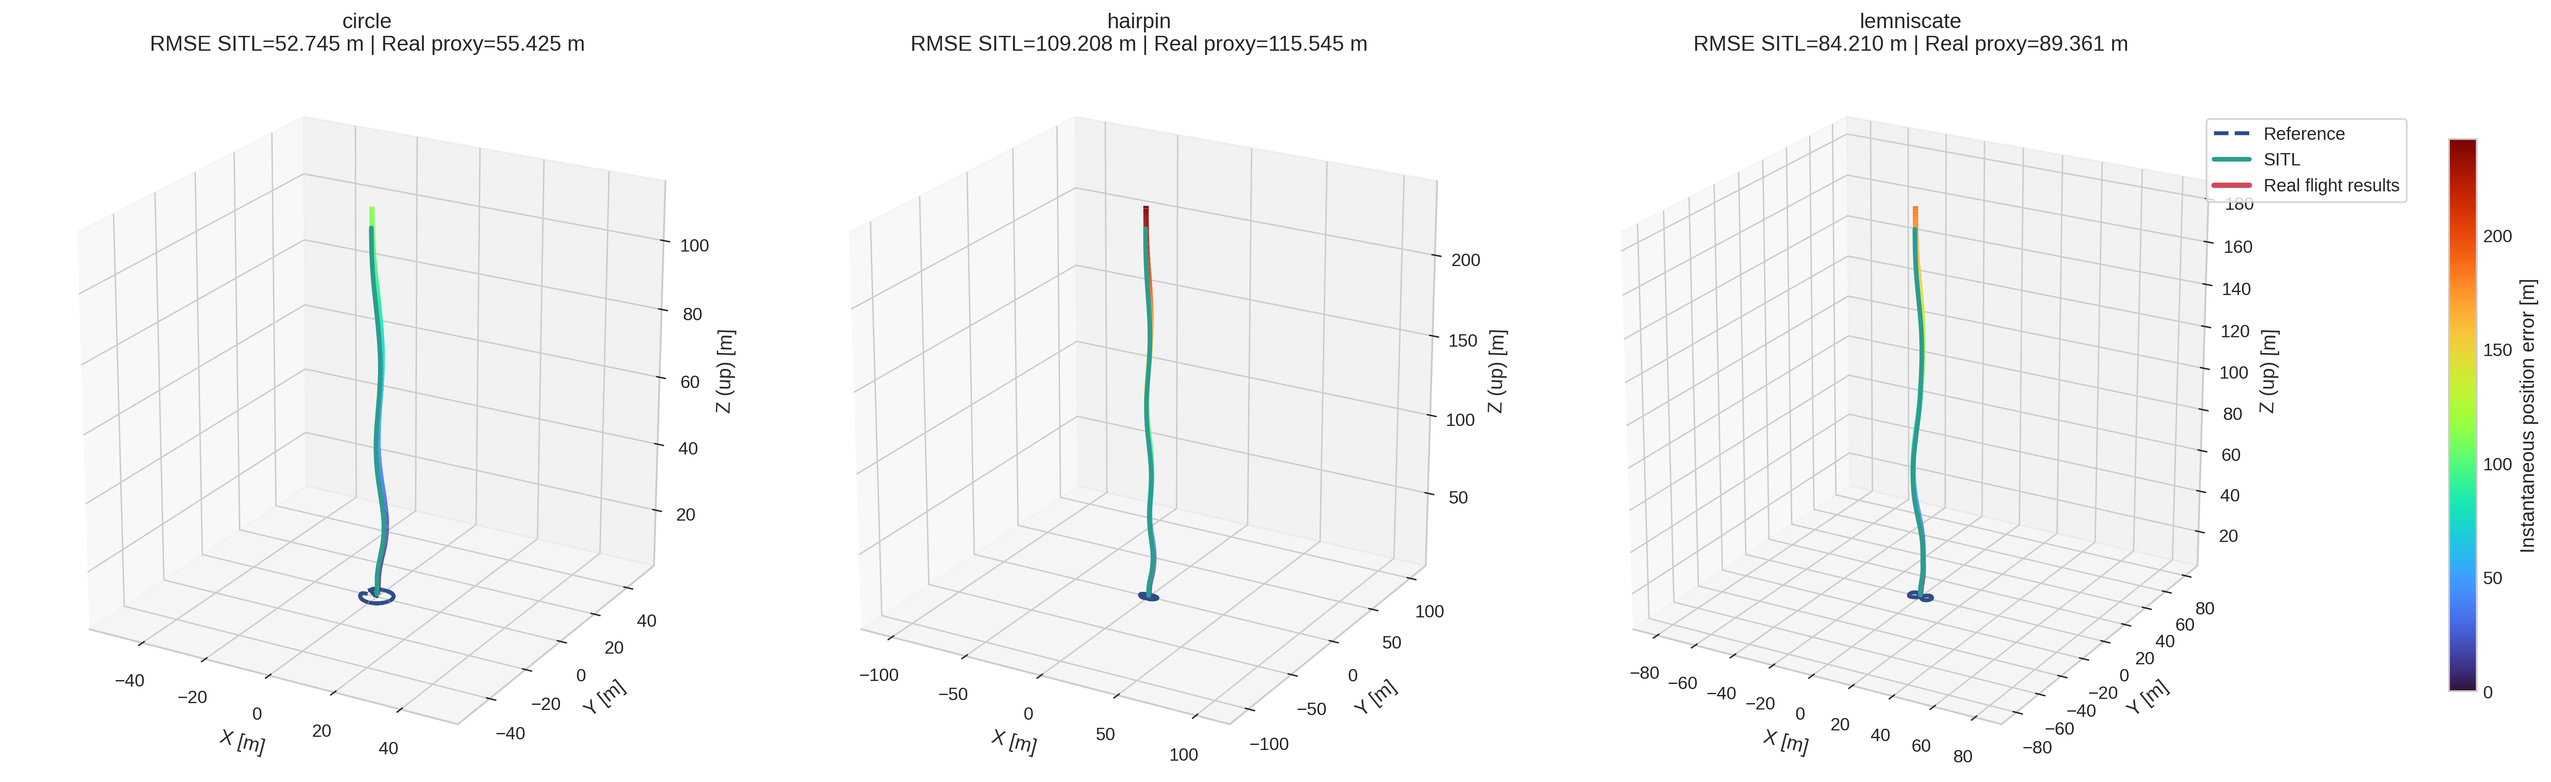
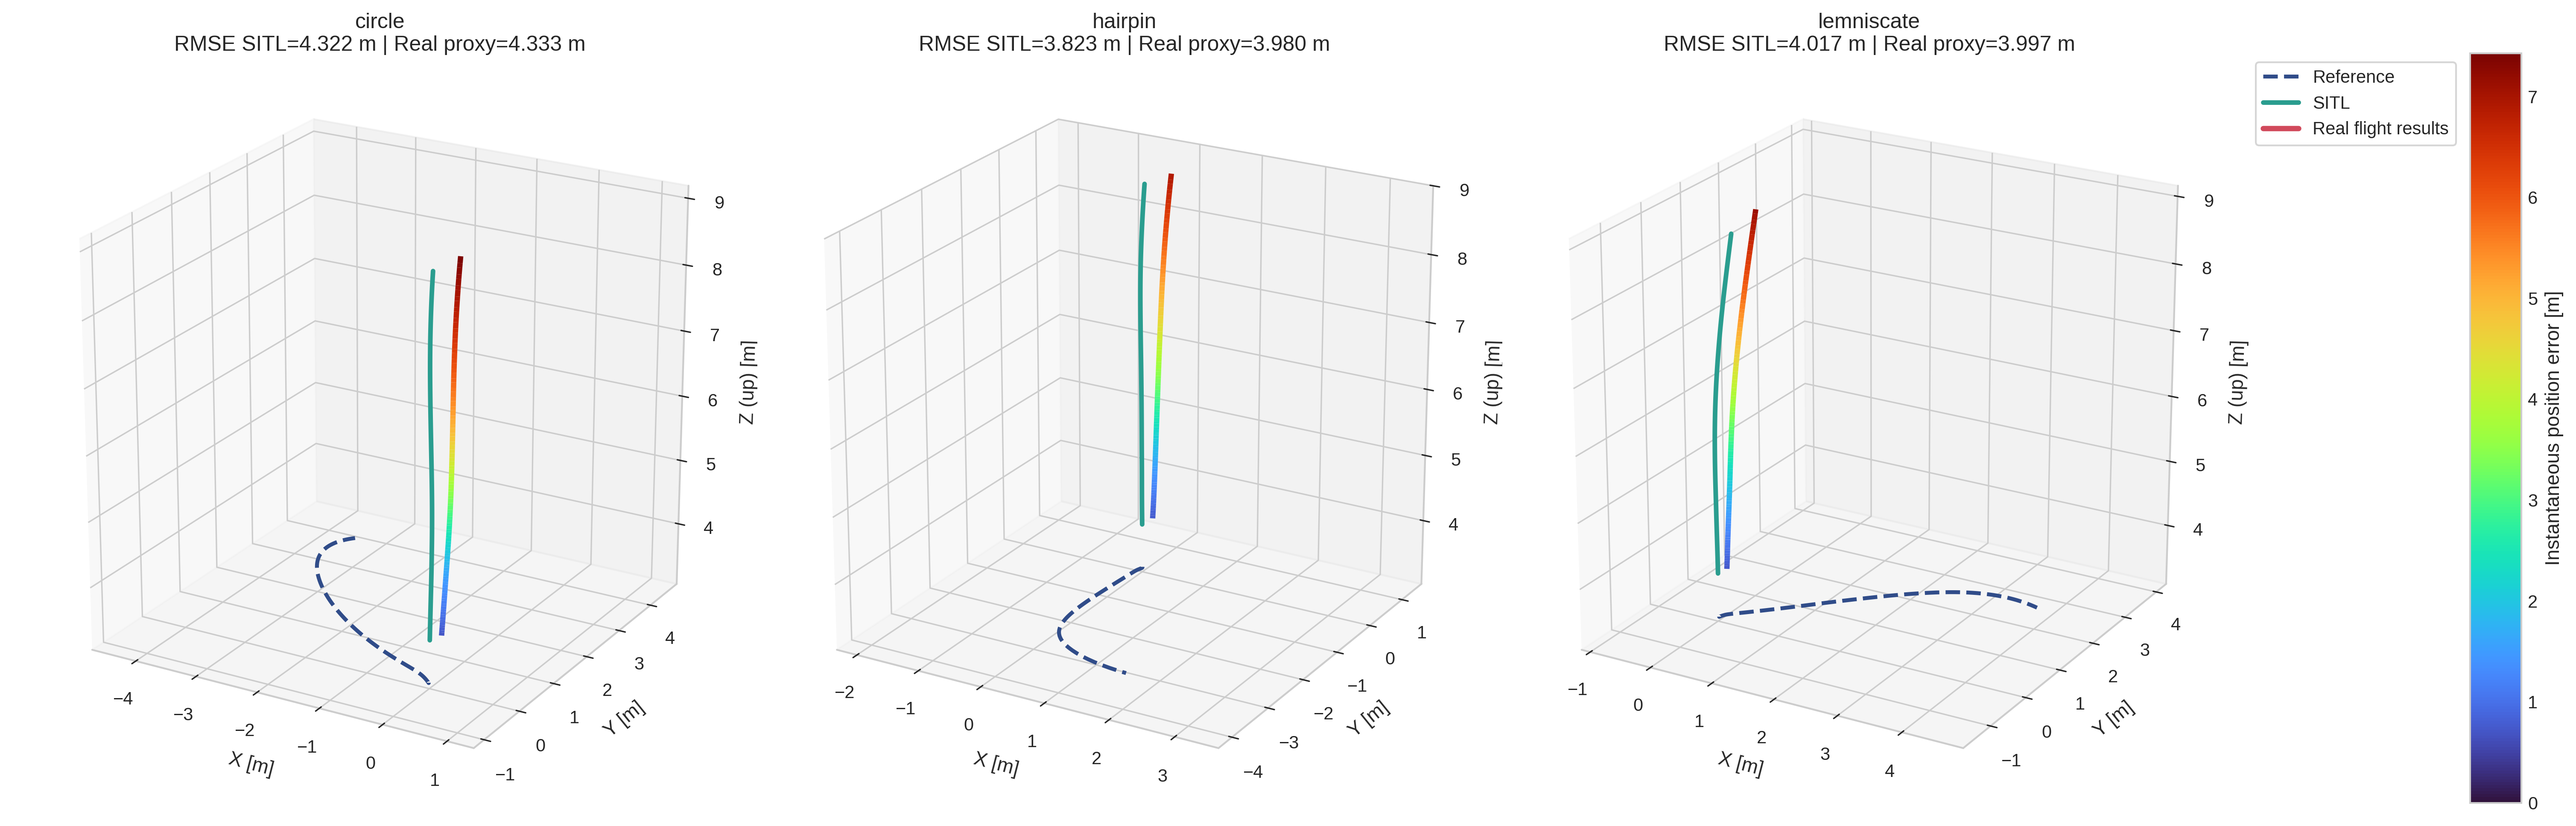
update

diff --git a/experimental_validation/offnominal_sitl_study.py b/experimental_validation/offnominal_sitl_study.py
@@ -492,6 +492,41 @@ def _trajectory_rmse(ref: np.ndarray, pos: np.ndarray) -> tuple[float, np.ndarra
     return float(np.sqrt(np.mean(sq))), np.sqrt(sq)
 
 
+def _runaway_cutoff_index(
+    ref: np.ndarray,
+    pos: np.ndarray,
+    *,
+    z_error_threshold_m: float = 6.0,
+    consecutive_samples: int = 12,
+) -> int:
+    if len(ref) == 0 or len(pos) == 0:
+        return 0
+
+    usable = min(len(ref), len(pos))
+    z_error = np.abs(pos[:usable, 2] - ref[:usable, 2])
+    run = 0
+
+    for idx, value in enumerate(z_error):
+        if value > z_error_threshold_m:
+            run += 1
+            if run >= consecutive_samples:
+                return max(1, idx - consecutive_samples + 1)
+        else:
+            run = 0
+
+    return usable
+
+
+def _trim_triplet(ref: np.ndarray, stock: np.ndarray, real: np.ndarray) -> tuple[np.ndarray, np.ndarray, np.ndarray]:
+    usable = min(len(ref), len(stock), len(real))
+    cutoff = min(
+        _runaway_cutoff_index(ref[:usable], stock[:usable]),
+        _runaway_cutoff_index(ref[:usable], real[:usable]),
+    )
+    cutoff = max(1, cutoff)
+    return ref[:cutoff], stock[:cutoff], real[:cutoff]
+
+
 def _set_axes_equal(ax: plt.Axes, points: np.ndarray) -> None:
     mins = points.min(axis=0)
     maxs = points.max(axis=0)
@@ -527,25 +562,31 @@ def build_offnominal_figures(
 
     for figure_index, cases in enumerate(PANEL_GROUPS, start=1):
         cols = len(cases)
-        fig = plt.figure(figsize=(6.2 * cols + 1.7, 6.0), layout="constrained")
-        axes = [fig.add_subplot(1, cols, idx + 1, projection="3d") for idx in range(cols)]
+        width_ratios = [1.0] * cols + [0.24, 0.07]
+        fig = plt.figure(figsize=(5.8 * cols + 2.6, 6.2), layout="constrained")
+        gs = fig.add_gridspec(1, cols + 2, width_ratios=width_ratios)
+        axes = [fig.add_subplot(gs[0, idx], projection="3d") for idx in range(cols)]
+        legend_ax = fig.add_subplot(gs[0, cols])
+        cax = fig.add_subplot(gs[0, cols + 1])
+        legend_ax.axis("off")
 
         global_max_error = 1e-6
         loaded = {}
         for case in cases:
             stock_ref, stock_pos = _load_tracking(stock_root / "tracking_logs" / f"{case}.csv")
             real_ref, real_pos = _load_tracking(offnominal_root / "tracking_logs" / f"{case}.csv")
-            rmse_real, err_real = _trajectory_rmse(real_ref, real_pos)
-            rmse_stock, _ = _trajectory_rmse(stock_ref, stock_pos)
+            ref, stock_pos, real_pos = _trim_triplet(stock_ref, stock_pos, real_pos)
+            rmse_real, err_real = _trajectory_rmse(ref, real_pos)
+            rmse_stock, _ = _trajectory_rmse(ref, stock_pos)
             global_max_error = max(global_max_error, float(np.max(err_real)))
             loaded[case] = {
-                "stock_ref": stock_ref,
+                "stock_ref": ref,
                 "stock_pos": stock_pos,
-                "real_ref": real_ref,
                 "real_pos": real_pos,
                 "rmse_stock": rmse_stock,
                 "rmse_real": rmse_real,
                 "err_real": err_real,
+                "samples": len(ref),
             }
 
         norm = mpl.colors.Normalize(vmin=0.0, vmax=global_max_error)
@@ -565,7 +606,7 @@ def build_offnominal_figures(
                 linestyle="--",
                 linewidth=2.2,
                 color="#304c89",
-                label="Reference trajectory",
+                label="Reference",
             )
             ax.plot(
                 stock[:, 0],
@@ -586,7 +627,9 @@ def build_offnominal_figures(
 
             all_points = np.vstack([ref, stock, real])
             _set_axes_equal(ax, all_points)
-            ax.set_title(f"{case}\nRMSE SITL={payload['rmse_stock']:.3f} m | Real proxy={payload['rmse_real']:.3f} m")
+            ax.set_title(
+                f"{case}\nRMSE SITL={payload['rmse_stock']:.3f} m | Real proxy={payload['rmse_real']:.3f} m"
+            )
             ax.set_xlabel("X [m]")
             ax.set_ylabel("Y [m]")
             ax.set_zlabel("Z (up) [m]")
@@ -597,9 +640,9 @@ def build_offnominal_figures(
             mpl.lines.Line2D([0], [0], color="#2a9d8f", linestyle="-", linewidth=2.6, label="SITL"),
             mpl.lines.Line2D([0], [0], color="#d1495b", linestyle="-", linewidth=3.0, label="Real flight results"),
         ]
-        fig.legend(handles=legend_handles, loc="center left", bbox_to_anchor=(0.86, 0.80), frameon=True)
+        legend_ax.legend(handles=legend_handles, loc="upper left", frameon=True)
         scalar = mpl.cm.ScalarMappable(norm=norm, cmap=cmap)
-        cbar = fig.colorbar(scalar, ax=axes, shrink=0.78, pad=0.08, fraction=0.03)
+        cbar = fig.colorbar(scalar, cax=cax)
         cbar.set_label("Instantaneous position error [m]")
 
         name = "group_1_circle_hairpin_lemniscate" if figure_index == 1 else "group_2_time_optimal_minimum_snap"

diff --git a/experimental_validation/tests/test_offnominal_sitl_study.py b/experimental_validation/tests/test_offnominal_sitl_study.py
@@ -6,10 +6,13 @@ import unittest
 import xml.etree.ElementTree as ET
 from pathlib import Path
 
+import numpy as np
 import experimental_validation.offnominal_sitl_study as study
 from experimental_validation.offnominal_sitl_study import (
     OffnominalPerturbation,
     PANEL_GROUPS,
+    _runaway_cutoff_index,
+    _trim_triplet,
     _trajectory_duration_s,
     offnominal_reference,
 )
@@ -155,6 +158,24 @@ class OffnominalSitlStudyTest(unittest.TestCase):
             self.assertIsNotNone(plugin)
             self.assertEqual(plugin.findtext("timeConstantUp"), "0.0105")
             self.assertEqual(plugin.findtext("timeConstantDown"), "0.021")
+
+    def test_runaway_cutoff_detects_late_altitude_escape(self) -> None:
+        ref = np.zeros((80, 3), dtype=float)
+        pos = ref.copy()
+        pos[55:, 2] = 10.0
+        cutoff = _runaway_cutoff_index(ref, pos, z_error_threshold_m=6.0, consecutive_samples=5)
+        self.assertEqual(cutoff, 55)
+
+    def test_trim_triplet_uses_earliest_runaway_across_series(self) -> None:
+        ref = np.zeros((100, 3), dtype=float)
+        stock = ref.copy()
+        real = ref.copy()
+        stock[70:, 2] = 9.0
+        real[60:, 2] = 9.0
+        ref_out, stock_out, real_out = _trim_triplet(ref, stock, real)
+        self.assertEqual(len(ref_out), 60)
+        self.assertEqual(len(stock_out), 60)
+        self.assertEqual(len(real_out), 60)
 
 
 if __name__ == "__main__":
